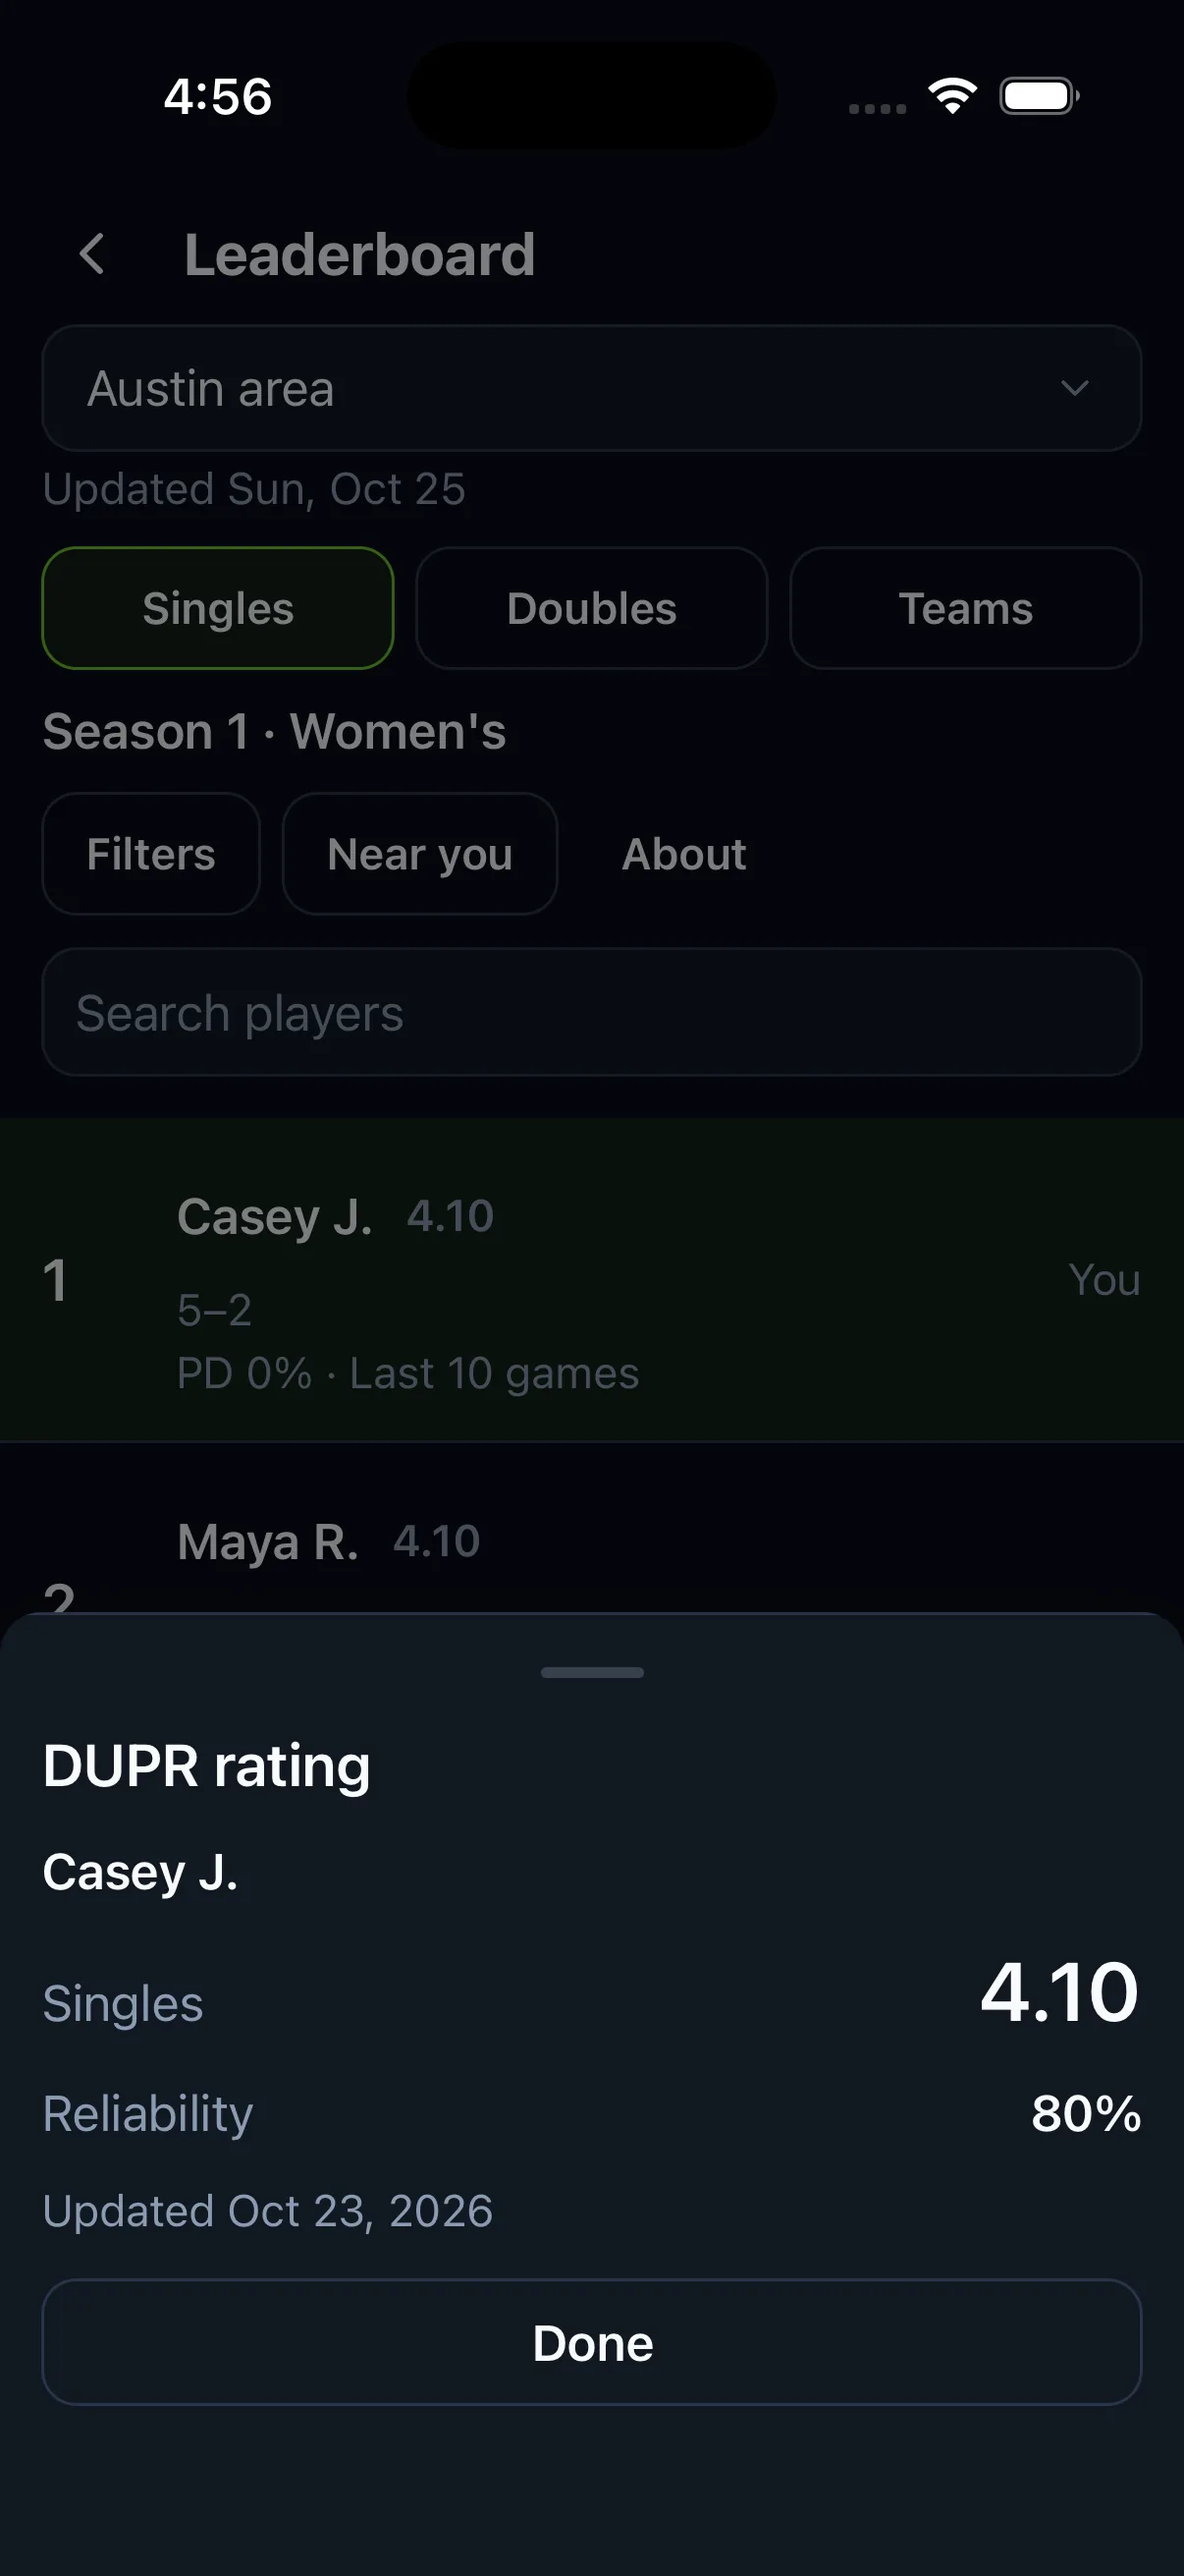
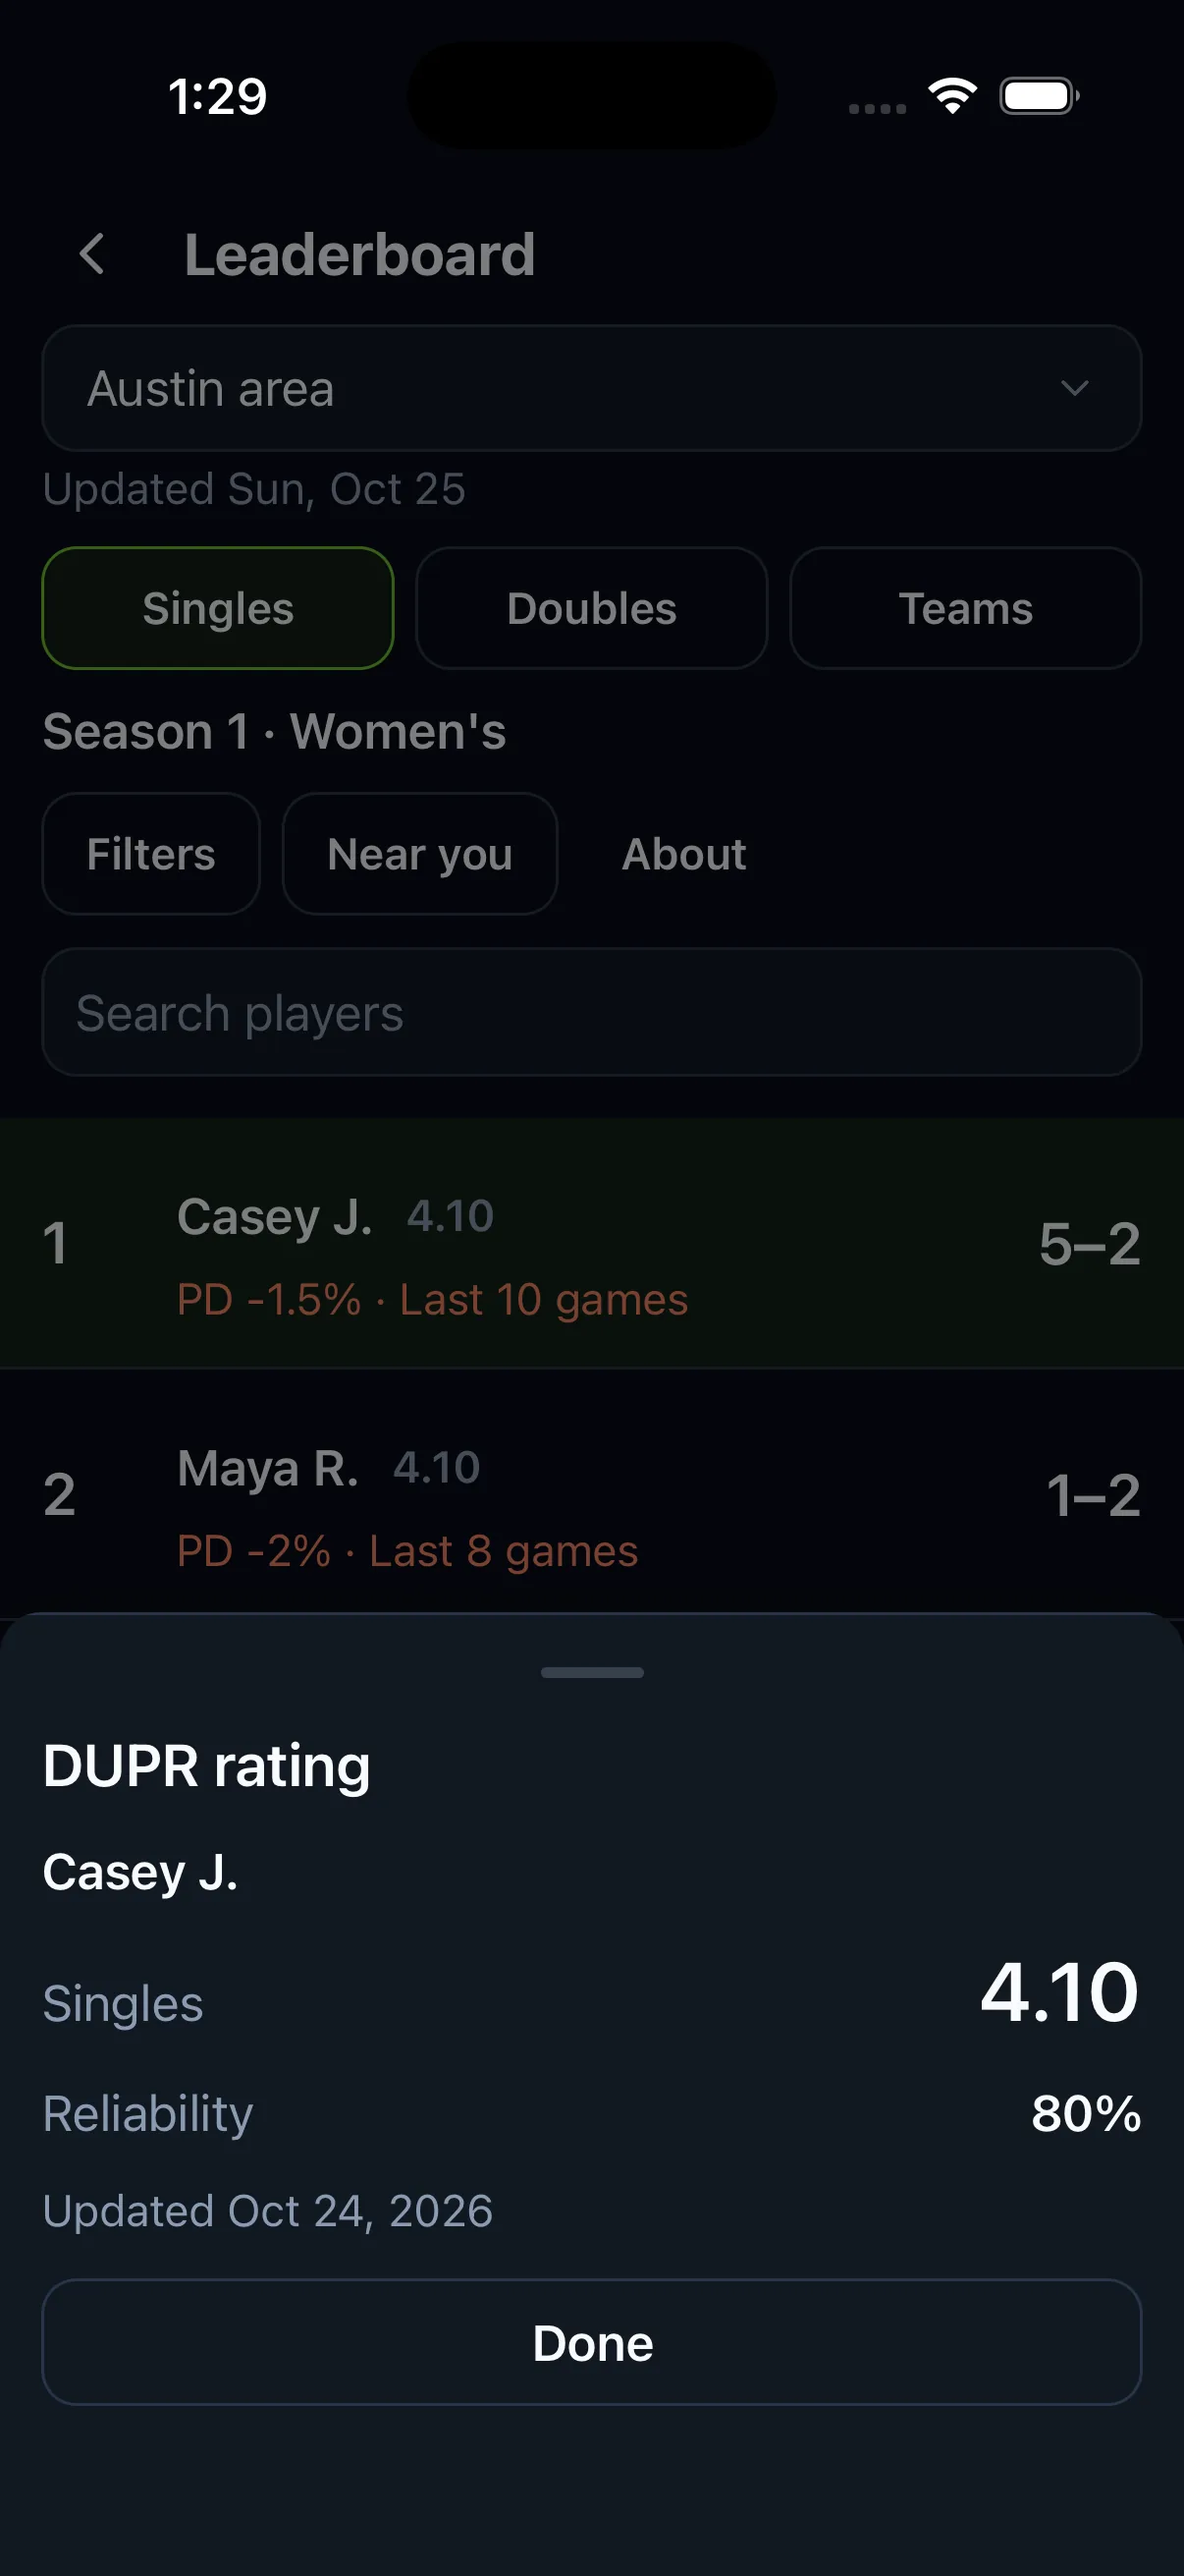
Recapture 20 screens from one consistent League story
The October 27 recaptures came from a different fictional League, so
Casey's home, menu and match screens showed a Thursday match with Maya
while the rest of the tour followed a confirmed Wednesday match with
Sofia. Casey's record also disagreed between screens (5-2 vs 6-3, a
Provisional estimate on one screen and "pending" on others), screen 7
"Choose venues" showed an empty times screen, Dispute still showed
Jade's report with an old time-zone label, and Scan to play switched
venues between steps.

The world was rebuilt from an empty database with the original story
and the app ran from local main 9c88f0cb2. Screens 7, 18, 19, 21, 23,
29, 30, 43, 44, 46, 48, 49, 50, 55, 57, 66, 67, 68, 69 and 83 were
taken again. Captions for 18, 19, 21, 29, 43, 46, 48 and 66 now say
what their images show. The 20 images get a new cache version so
browsers do not keep the earlier October 27 files.

Checked in the in-app browser at 360x800, 390x844 and 1280x900: no
sideways scroll, all 84 strip images load, #s19 and #s07 open the new
images under their captions. Manifest hashes match the source PNGs.

diff --git a/index.html b/index.html
@@ -155,6 +155,7 @@ dialog#lb[open] { display: grid; grid-template-rows: auto minmax(0, 1fr) auto; }
 
 <script>
 const REFRESHED_20261027 = new Set(['08-setup-options', '10d-setup-check-in', '11-blake-home', '12-home', '13-league-menu', '19b-match-menu', '43-team-settings', '46-settings', '46b-settings-lower', '47-notification-settings', '53-home-conduct-task']);
+const REFRESHED_20261027B = new Set(['06-setup-venues', '11-blake-home', '12-home', '12c-standings-info', '13-league-menu', '19-match-upcoming', '19b-match-menu', '25-review', '26-dispute', '28-past', '29b-board-rating', '30-board-near-you', '31-board-filters', '36-stats', '37-badge', '43-team-settings', '44-scan', '44b-scan-venue-chosen', '44c-scan-waiting', '53-home-conduct-task']);
 const CHAPTERS = [
   { id: 'discover', title: 'Discover the League', who: 'What a player sees on the League tab before joining.', person: 'Blake', shots: [
     ['01-intro-match', 'Always open', 'Circuit proposes matches near you, at your times, against players at your level. Joining is free, any day of the year.'],
@@ -176,12 +177,12 @@ const CHAPTERS = [
     ['10-setup-next', 'You’re in', 'Matches depend on who else is free at your times and venues; some weeks there won’t be one. Start matchmaking turns the search on.'],
     ['10b-setup-notifications-prompt', 'Notifications', 'Match offers need an answer within a few hours, so setup asks for notification permission.'],
     ['10d-setup-check-in', 'Automatic check-in', 'Optional and on by default. Near match time, location checks you in and tells players already checked in. Your position stays on your phone.'],
-    ['11-blake-home', 'Blake’s League home', 'Searching for a first singles match, with this week’s times and Skip this week one tap away.'],
+    ['11-blake-home', 'Blake’s League home', 'Searching for a first match in Men’s singles and Men’s rotating doubles, with Wednesday 6–9 PM saved and Skip this week one tap away.'],
   ]},
   { id: 'home', title: 'Casey’s League home', who: 'Seven weeks in: what needs attention, upcoming matches and standing.', person: 'Casey', shots: [
-    ['12-home', 'Home', 'Casey has a confirmed singles match with Maya, and can add times or manage their doubles team.'],
+    ['12-home', 'Home', 'Two scores need Casey: Sunday’s match with Maya to report and Elena’s Saturday report to review. Wednesday’s match with Sofia is confirmed, with two unread chat messages.'],
     ['12b-home-lower', 'This week', 'Season 1, week 7. Last week’s published standings put Casey #1 in the Austin area, Texas and everywhere, still Provisional. The info button holds the detail.'],
-    ['12c-standings-info', 'How standings work', 'The info button explains how rank is worked out and how close Casey is to dropping the Provisional label.'],
+    ['12c-standings-info', 'How standings work', 'Rank comes from League results, adjusted for who Casey played. With 7 rated singles matches, the estimate of when Provisional ends is still pending.'],
     ['12c-home-bottom', 'More League', 'The full leaderboard, last week’s recap, saved venues and invites.'],
     ['13-league-menu', 'League menu', 'My QR code for Scan to play, League settings and the rules.'],
   ]},
@@ -193,7 +194,7 @@ const CHAPTERS = [
     ['17-offer-accepted', 'Accepted', 'Casey has accepted; the match confirms when Sofia does.'],
   ]},
   { id: 'matches', title: 'Confirmed matches and chat', who: 'Everything about a booked match in one place.', person: 'Casey', shots: [
-    ['19-match-upcoming', 'Match details', 'Confirmed for Wednesday 6 PM. Casey can start another search or open match chat.'],
+    ['19-match-upcoming', 'Match details', 'Confirmed for tomorrow, Wednesday, at 6 PM. Casey can start another search or open match chat, which has two unread messages.'],
     ['19b-match-menu', 'Match actions', 'Add to calendar, directions, venue details, report a problem with a player, rules, and Cancel match last.'],
     ['20-chat', 'Match chat', 'Messages with Sofia about Wednesday. The tab bar steps aside so the composer stays clear.'],
     ['20b-chat-players', 'Mute or block', 'From chat, Casey can mute or block Sofia.'],
@@ -209,14 +210,14 @@ const CHAPTERS = [
     ['22b-report-filled', 'Games entered', 'Each score sits beside its player, green for the game winner and coral for the loser.'],
     ['23-report-short-confirm', 'Fewer games than planned', 'Reporting two of three planned games asks first: game 3 won’t have a score.'],
     ['24-report-sent', 'Score sent', 'Casey won 11–6, 9–11, 11–7. Priya reviews it, or it counts automatically Wednesday at 4:27 PM.'],
-    ['25-review', 'Review a score', 'Elena reported Saturday’s match. Score is right confirms it; Something’s wrong opens a dispute. Doing nothing confirms it Wednesday.'],
+    ['25-review', 'Review a score', 'Elena reported Saturday’s match. Score is right confirms it; Something’s wrong opens a dispute. Doing nothing confirms it Thursday at 1:26 PM.'],
     ['26-dispute', 'Dispute', 'Sending a dispute stops the automatic count. If the players don’t agree within 24 hours, the result is voided.'],
     ['27-confirmed', 'Final', 'Elena won 2–1. A loss shows Final without the green glow that a win gets.'],
-    ['28-past', 'Past matches', 'Results by day, winner first, with pending reports marked.'],
+    ['28-past', 'Past matches', 'Results by day, winner first, with each game’s score beside its player.'],
   ]},
   { id: 'leaderboards', title: 'Leaderboards', who: 'Ranks come from League results, adjusted for who you played, and update after Sunday.', person: 'Casey', shots: [
     ['29-board', 'Austin area, Women’s singles', 'Casey is #1 at 5–2, on the highlighted row. Each record sits large on the right; PD is point differential over recent games, and DUPR appears beside each name.'],
-    ['29b-board-rating', 'DUPR rating', 'Casey’s singles DUPR 4.10, 80% reliable, synced Oct 23. It does not set League rank.'],
+    ['29b-board-rating', 'DUPR rating', 'Casey’s singles DUPR 4.10, 80% reliable, updated Oct 24. It does not set League rank.'],
     ['30-board-near-you', 'Near you', 'Narrows the board to players who play mostly within 20 miles of Casey’s favorite venue.'],
     ['31-board-filters', 'Filters', 'Switch between Men’s and Women’s categories.'],
     ['32-board-about', 'About this board', 'Which cities the area includes, how rank and Near you work, and when standings update.'],
@@ -240,7 +241,7 @@ const CHAPTERS = [
     ['41-add-team', 'New team', 'Choose Women’s or Mixed doubles, then Create invite link. There is no player search: a partner is someone Casey already knows.'],
     ['41b-add-team-share', 'Send the link', 'The share sheet opens with the link, ready to text to a friend. It works for 7 days, and only the first person to open it can accept.'],
     ['41c-add-team-link-saved', 'Link saved', 'The invite waits under Matchmaking, with Share link to send it again and Cancel invite. Maya opens it on her own phone and accepts.'],
-    ['43-team-settings', 'Team page', 'Casey and Maya’s Women’s doubles team has not started matchmaking yet. Out for now and End this team remain available.'],
+    ['43-team-settings', 'Team page', 'Casey and Maya’s Women’s doubles team: times, match settings, Out for now, and End this team last.'],
   ]},
   { id: 'scan', title: 'Scan to play', who: 'Already at the courts with someone? Set up a League match on the spot.', person: 'Casey', shots: [
     ['44-scan', 'Plan the match', 'The nearest League venues come first, each with its distance, when the phone already allows location. Without it, saved venues lead.'],
@@ -283,7 +284,8 @@ CHAPTERS.forEach((c, ci) => {
   for (const [file, t, d] of c.shots) {
     const idx = all.length;
     const n = String(idx + 1).padStart(2, '0');
-    const src = `img/oct26/${file}.webp${REFRESHED_20261027.has(file) ? "?v=20261027" : ""}`;
+    const version = REFRESHED_20261027B.has(file) ? '20261027b' : REFRESHED_20261027.has(file) ? '20261027' : '';
+    const src = `img/oct26/${file}.webp${version ? `?v=${version}` : ''}`;
     all.push({ n, t, d, src, chapter: c.title });
     const el = document.createElement('article');
     el.className = 'shot'; el.id = `s${n}`;

diff --git a/current-evidence.md b/current-evidence.md
@@ -8,6 +8,19 @@ Eleven screens were recaptured on an iPhone 17 Pro simulator using iOS 26.4, Dar
 
 The updated viewer was checked at 360×800, 390×844 and 1280×900 with no horizontal page overflow; the full-size check-in image loaded and Next advanced to Blake’s home. All 84 asset hashes in the capture list match the image files.
 
+## October 27 one-story recapture
+
+The earlier October 27 recaptures came from a different fictional League, so Casey's home, menu and match screens showed a Thursday match with Maya while the rest of the tour followed a Wednesday match with Sofia. The world was rebuilt from an empty database with the original story (Sofia's Wednesday 6 PM match, Maya's Sunday score to report, Elena's Saturday report to review, Casey and Maya's Women's doubles team, Elena's no-show report), and the app ran from local main `9c88f0cb2` on the same simulator settings. Twenty screens were taken again so they agree with each other and with the screens around them: 7, 18, 19, 21, 23, 29, 30, 43, 44, 46, 48, 49, 50, 55, 57, 66, 67, 68, 69 and 83.
+
+- Choose venues (screen 7) now shows the venue step. Before, it showed an empty times screen.
+- Casey's home, League menu, match details and match actions (19, 23, 29, 30) show the confirmed Wednesday match with Sofia and two unread chat messages. Home reminder (83) shows the conduct row above the same match list.
+- How standings work, Casey's record and Badge details (21, 55, 57) agree: 5–2 over 7 rated singles matches, with the Provisional estimate still pending. The leaderboard views (48 to 50) show the same −1.5% recent point differential as screen 47.
+- Review and Dispute (43, 44) are both Elena's Saturday report, without a time-zone label.
+- Past matches (46) shows results by day, winner first.
+- Scan to play (67 to 69) stays on Pease Park Courts from venue list to scan screen.
+
+The matching options, check-in setup, settings and notification screens (12, 17, 71 to 73) are still from the earlier October 27 pass. While capturing, a mistimed tap skipped Casey's week; it was undone before any screen was taken. No report, dispute or match plan was sent from the app.
+
 ## How the original screens were captured
 
 Every screen comes from one hands-on walkthrough of the Circuit League player app on an iPhone 17 Pro simulator, iOS 26.4, Dark appearance, Default app text size and the normal iOS text size. The app ran from local main after commit `e4e2ed091` plus the setup check-in fix described below, against an isolated local database with fictional players.

diff --git a/README.md b/README.md
@@ -6,7 +6,7 @@ One page follows two fictional players through Circuit League on iPhone. Blake j
 
 The original 84 screens were captured on October 26, 2026 on an iPhone 17 Pro simulator (iOS 26.4) in Dark appearance at the Default app text size. Most come from one walkthrough of the app on local main, after commit `e4e2ed091` and the setup check-in step fix that followed it. Ten were recaptured that evening after the second polish pass and the new match chat reactions (local main `8babf9c93`). Seven more were captured or recaptured later that night after the reaction badge and standings info changes (local main `b9c600d12`). Eighteen were recaptured after that, once in-app times showed a zone only when the phone's clock differs and Scan to play listed the nearest venues first (local main `01e6c876f`). Three team screens were recaptured last, once partner invites became link-only (local main `ee207be70`). Two chat screens were replaced and three added after League and Ladder chat moved to one shared message menu, with Reply, Copy, Mute, Report and Block (local main `8d80f68cc`). Tap any screen to step through the tour full size; arrow keys and swipes move between screens, and `#s12`-style links open a specific screen.
 
-Eleven screens were recaptured on October 27 with a rebuilt fictional League and current local app source (commit `b36cbc2d9` plus an uncommitted native-menu icon fix). The new match and team states may differ from the original story. The post-join check-in screen was opened using a temporary development-only setup entry that was reverted after capture.
+Eleven screens were recaptured on October 27 with a rebuilt fictional League and current local app source (commit `b36cbc2d9` plus an uncommitted native-menu icon fix). The new match and team states may differ from the original story. The post-join check-in screen was opened using a temporary development-only setup entry that was reverted after capture. Twenty of those and neighbouring screens were then recaptured from one rebuilt world (local main `9c88f0cb2`), so Casey's match, team, scores and standings agree across the tour.
 
 All people, matches, venues and safety records are fictional local test data. [Capture list](current-captures.json) names every screen and its source file. [Verification and known gaps](current-evidence.md) records what was checked and what the tour does not show.
 
